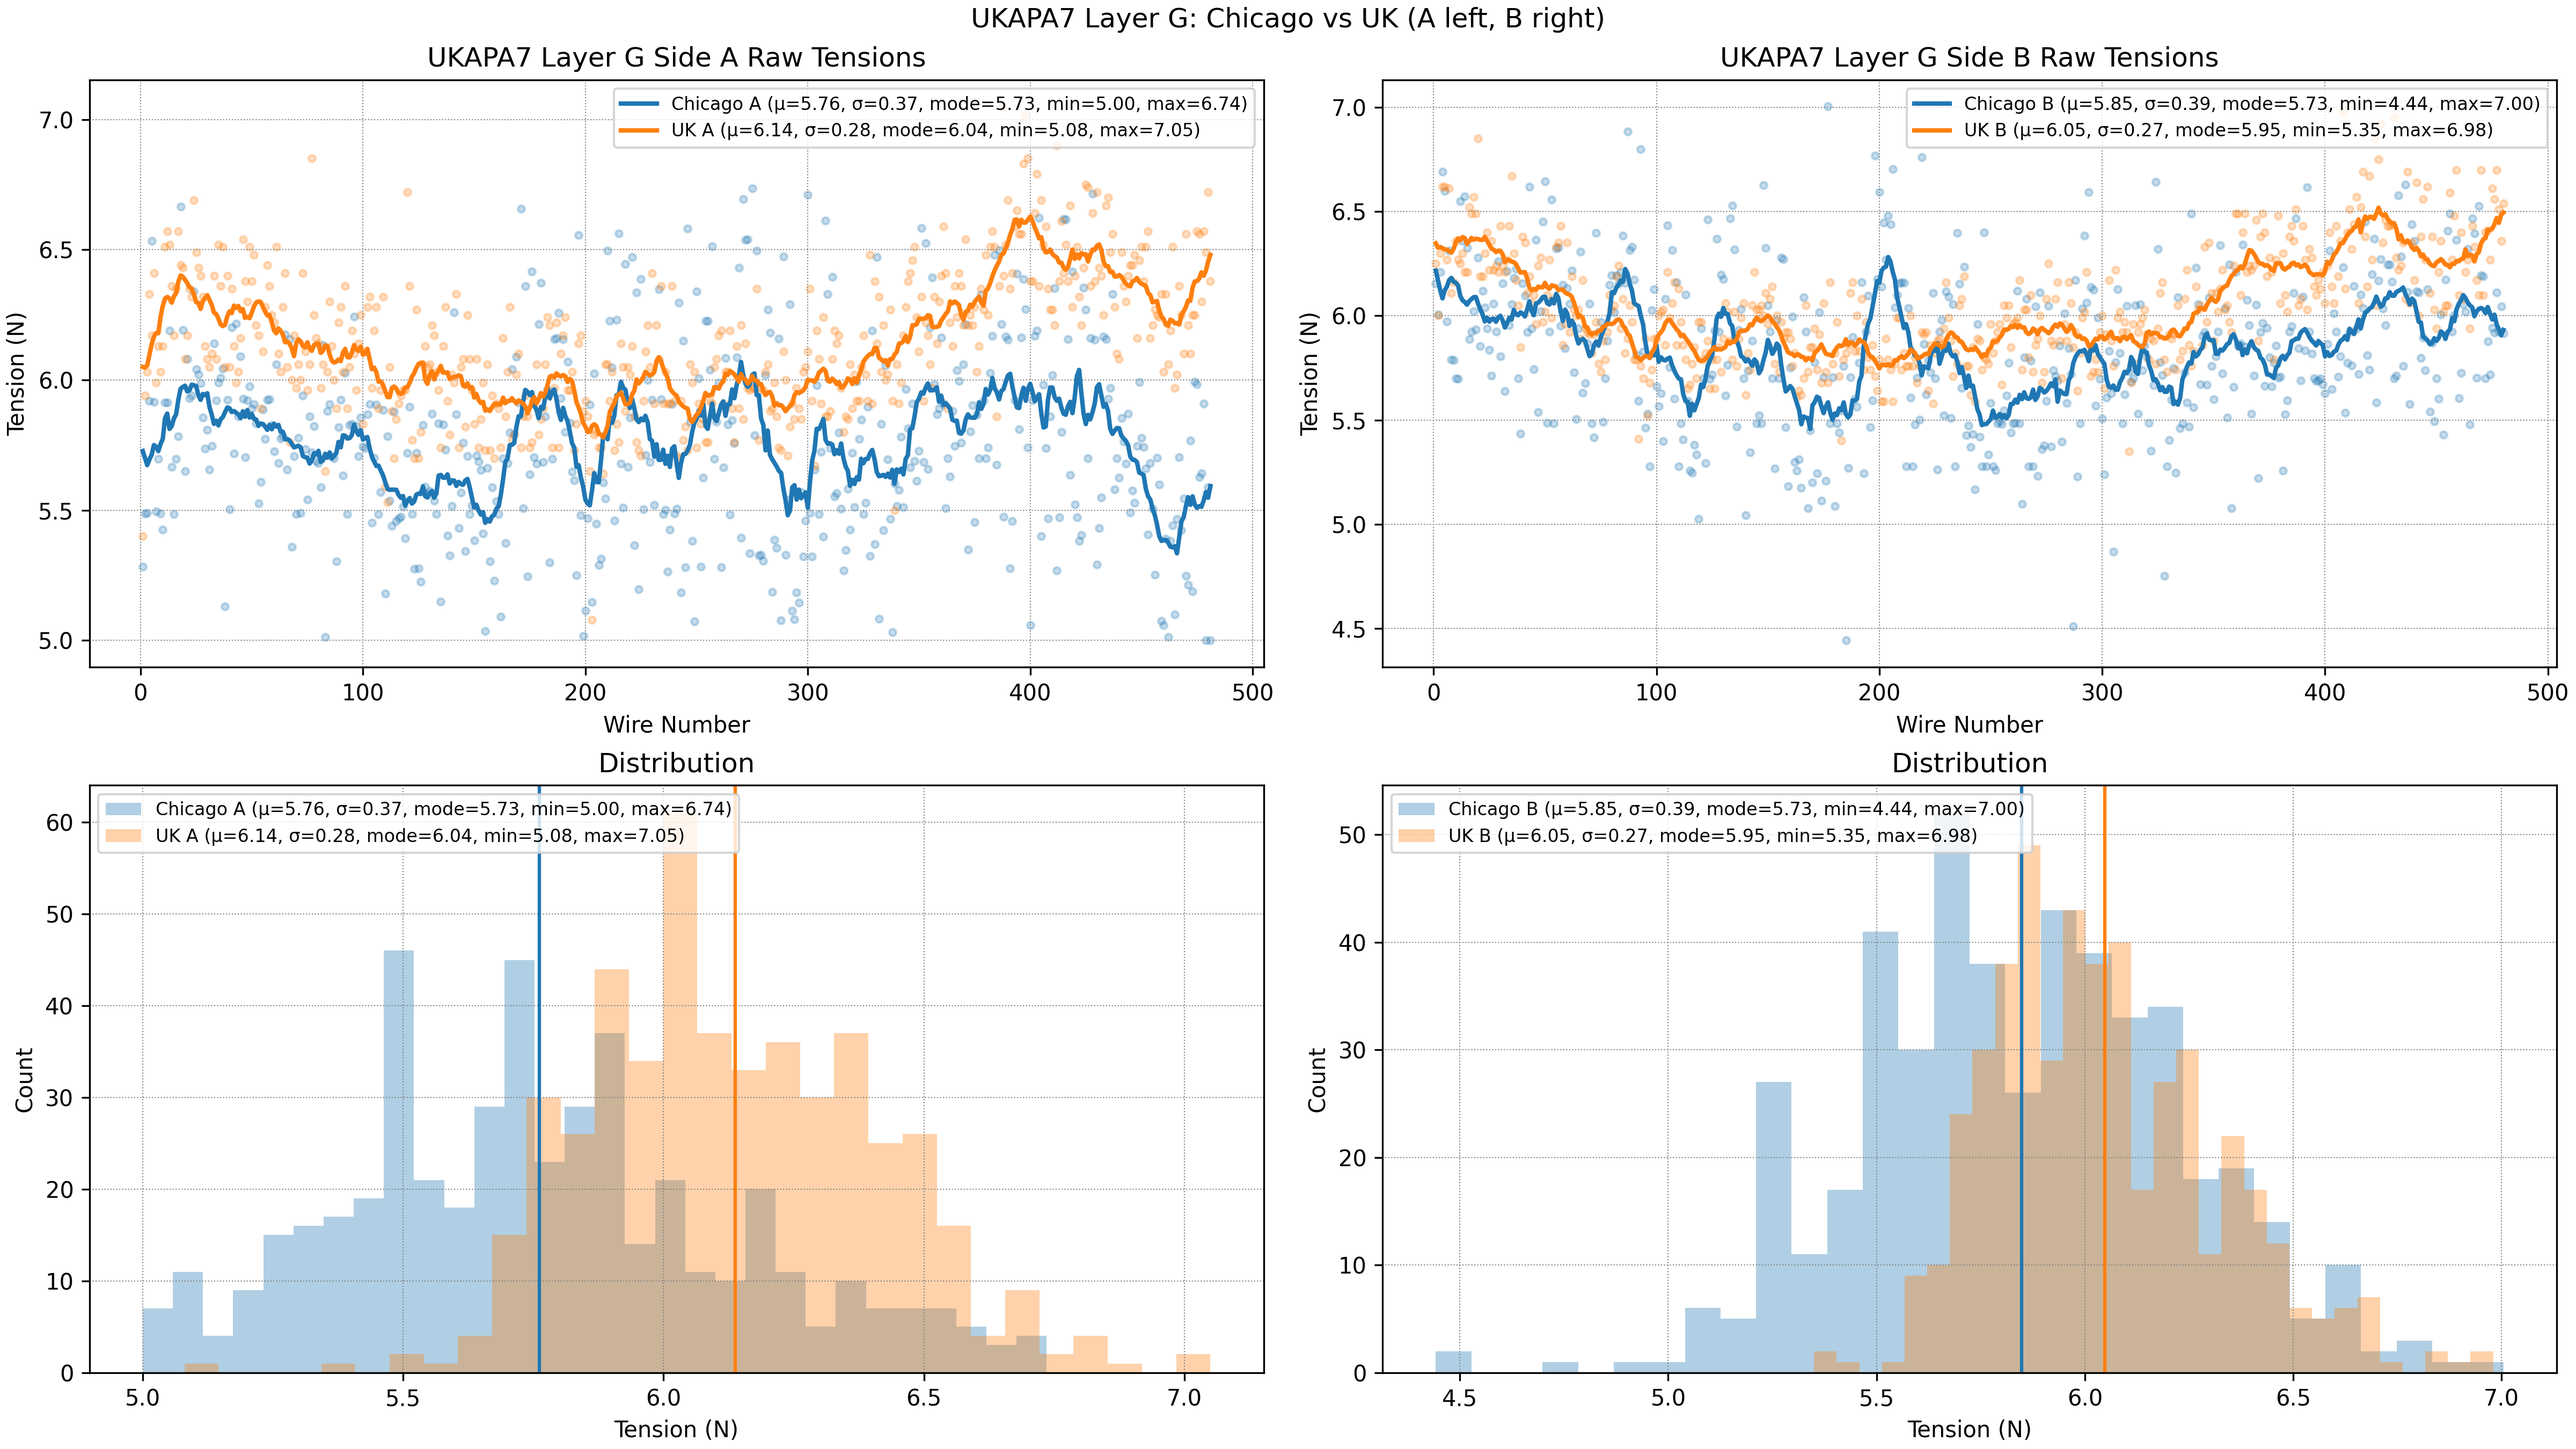
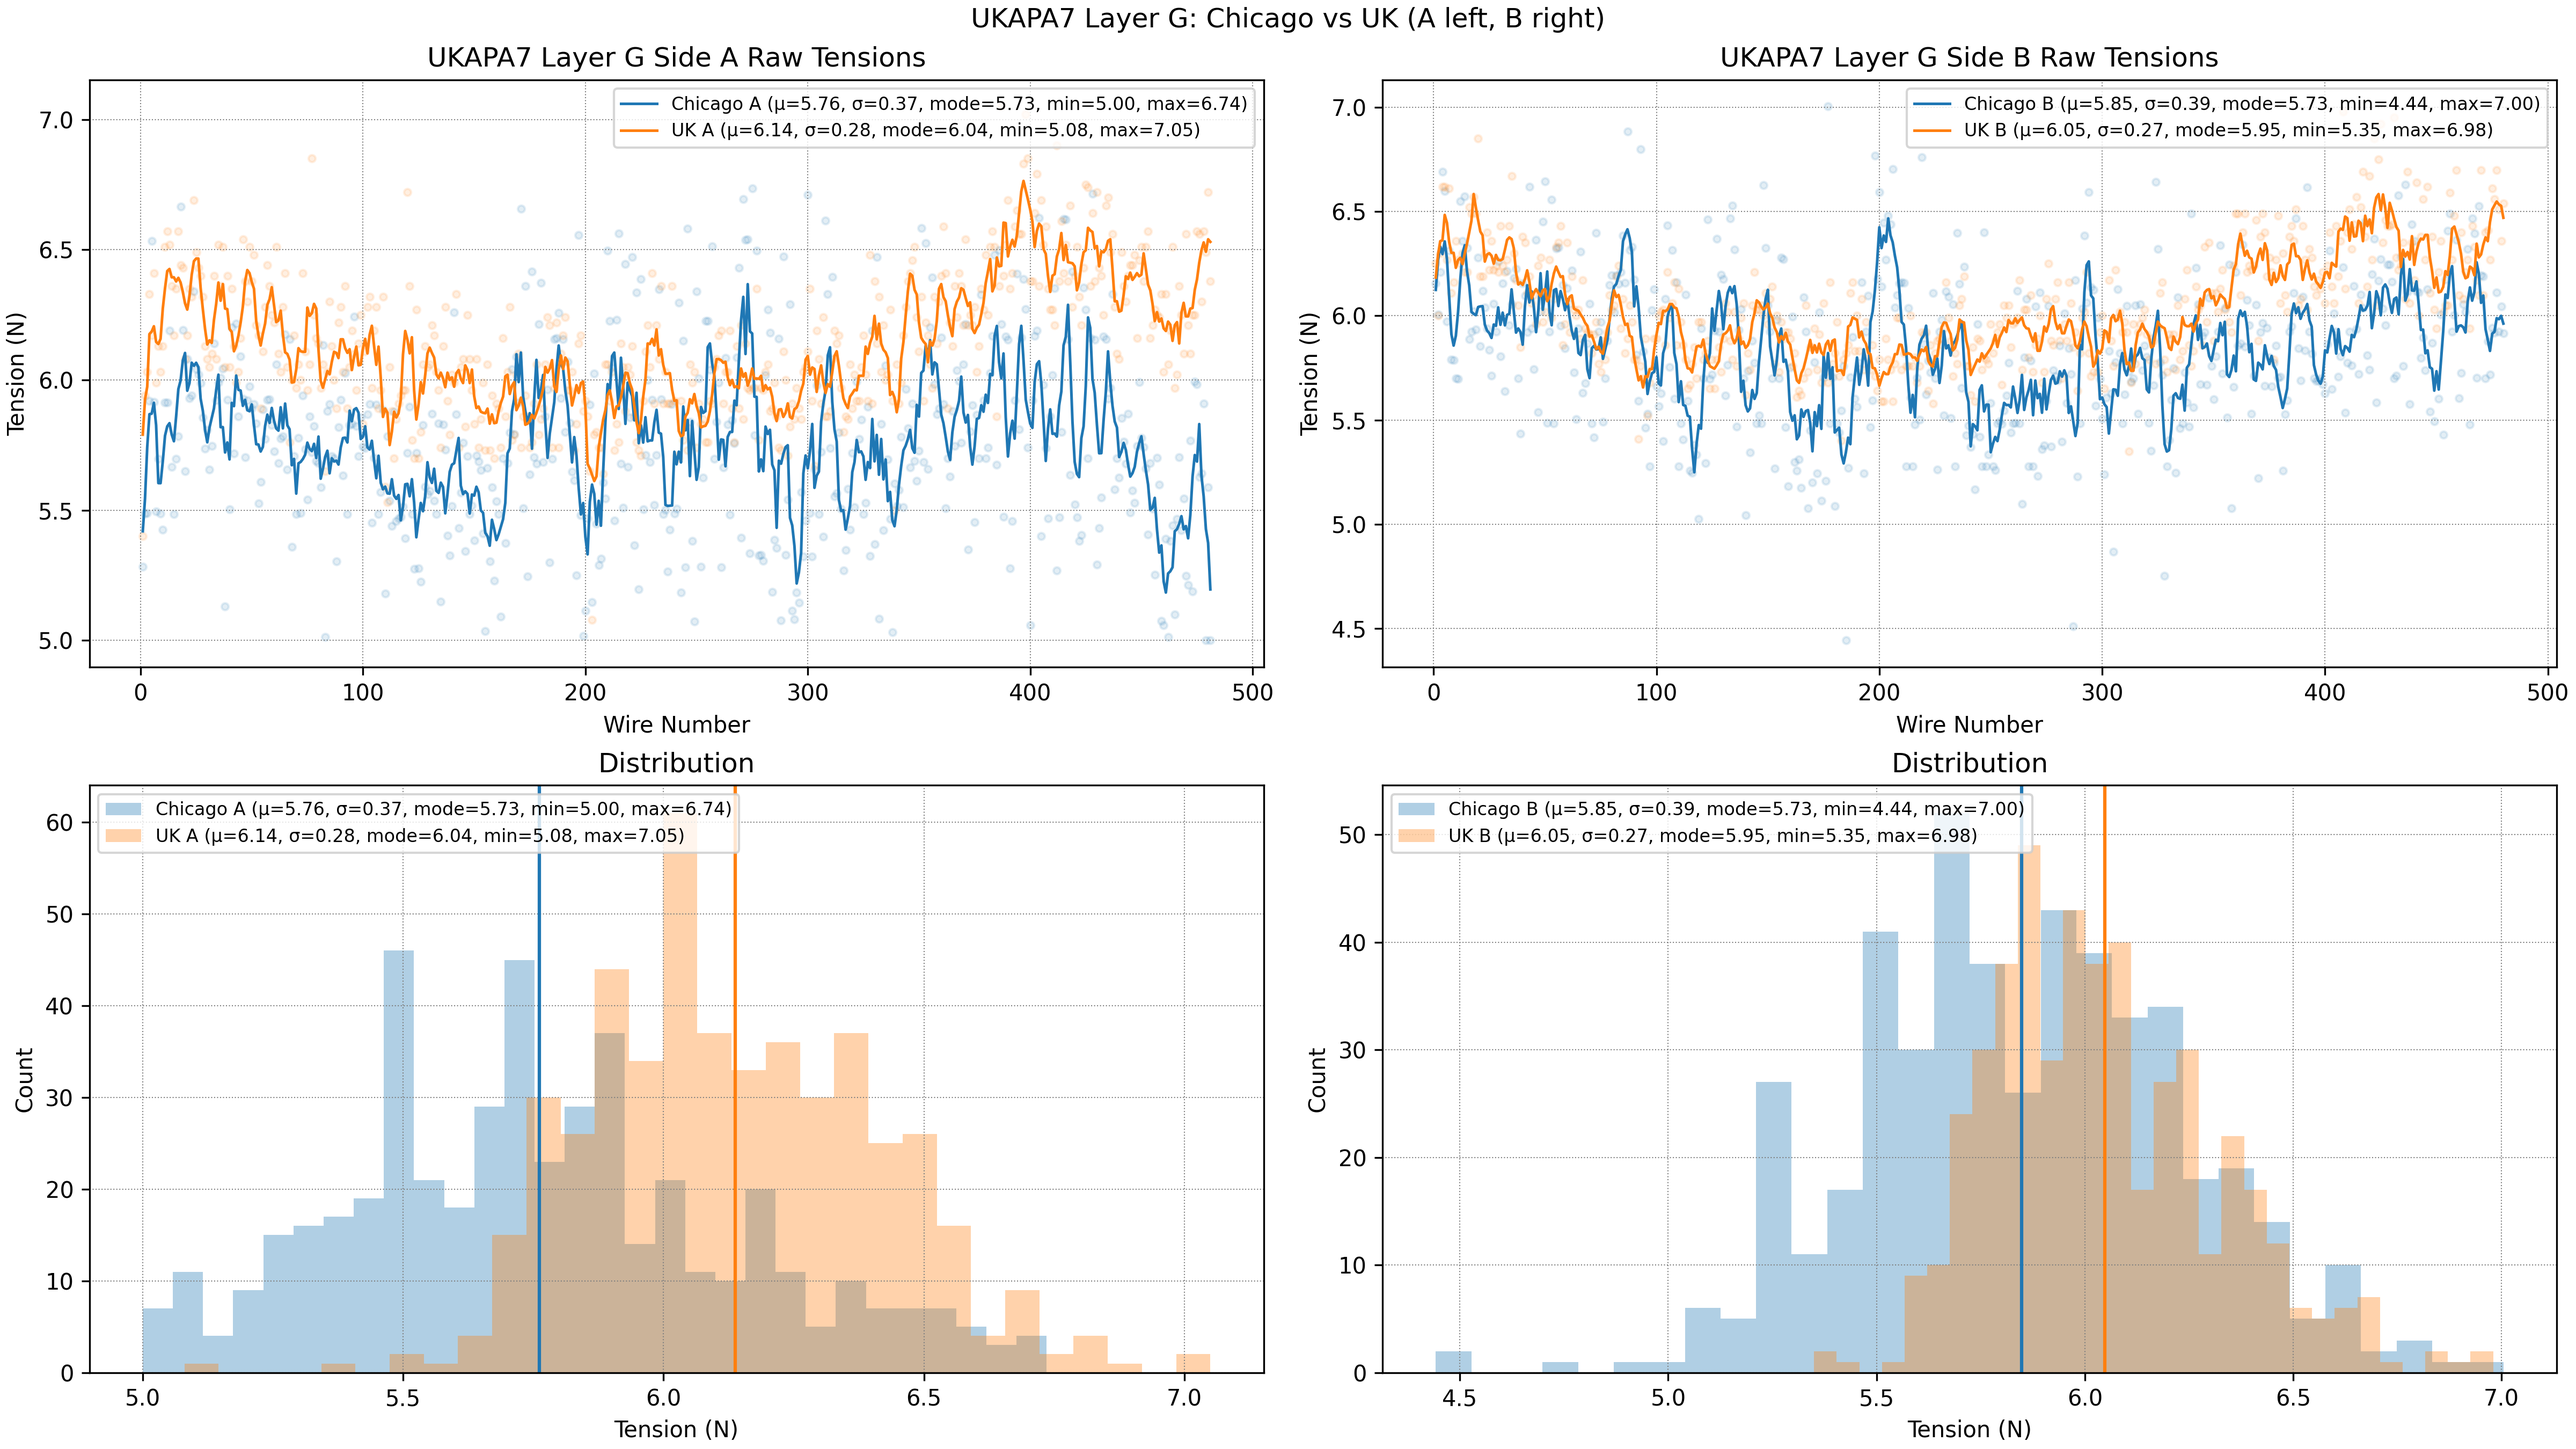
fix(tension): update UKAPA7 G landscape plot style

Changed region(s): [[0.0312, 0.1244, 0.4688, 0.4356], [0.5312, 0.1244, 0.9688, 0.3422]]

diff --git a/src/dune_tension/ukapa7_comparison/generate_landscape_display_plots.py b/src/dune_tension/ukapa7_comparison/generate_landscape_display_plots.py
@@ -71,11 +71,11 @@ def _plot_side_raw(
     ]
     for color, name, values in pairs:
         label = f"{name} ({_stats_text(values)})"
-        top_ax.scatter(wire_numbers, values, s=10, alpha=0.25, color=color)
+        top_ax.scatter(wire_numbers, values, s=10, alpha=0.12, color=color)
         top_ax.plot(
             wire_numbers,
-            _rolling_mean(values.reset_index(drop=True)),
-            linewidth=2,
+            _rolling_mean(values.reset_index(drop=True), window=5),
+            linewidth=1.2,
             color=color,
             label=label,
         )
